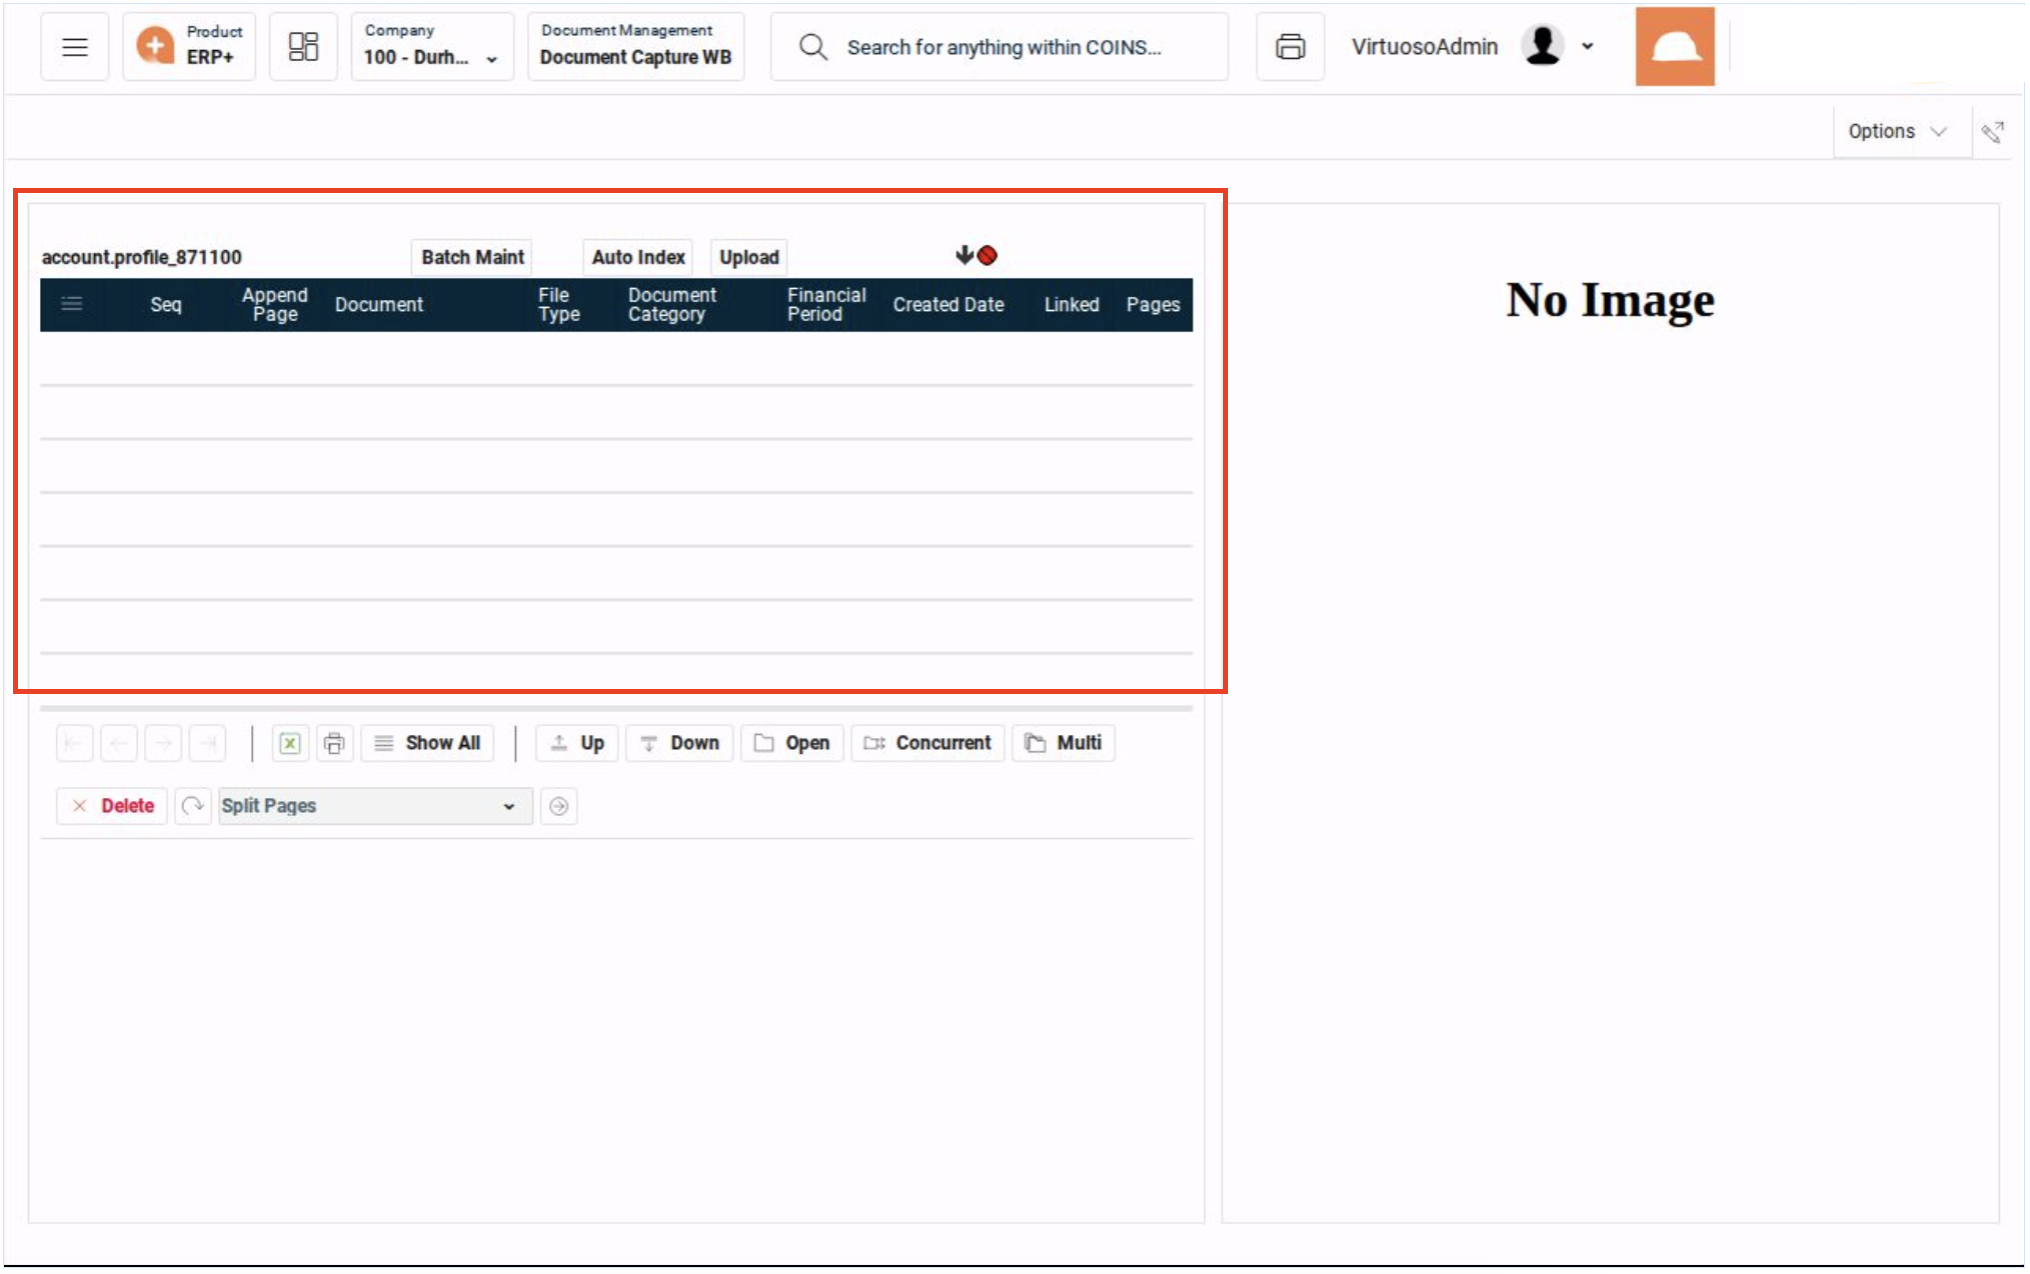
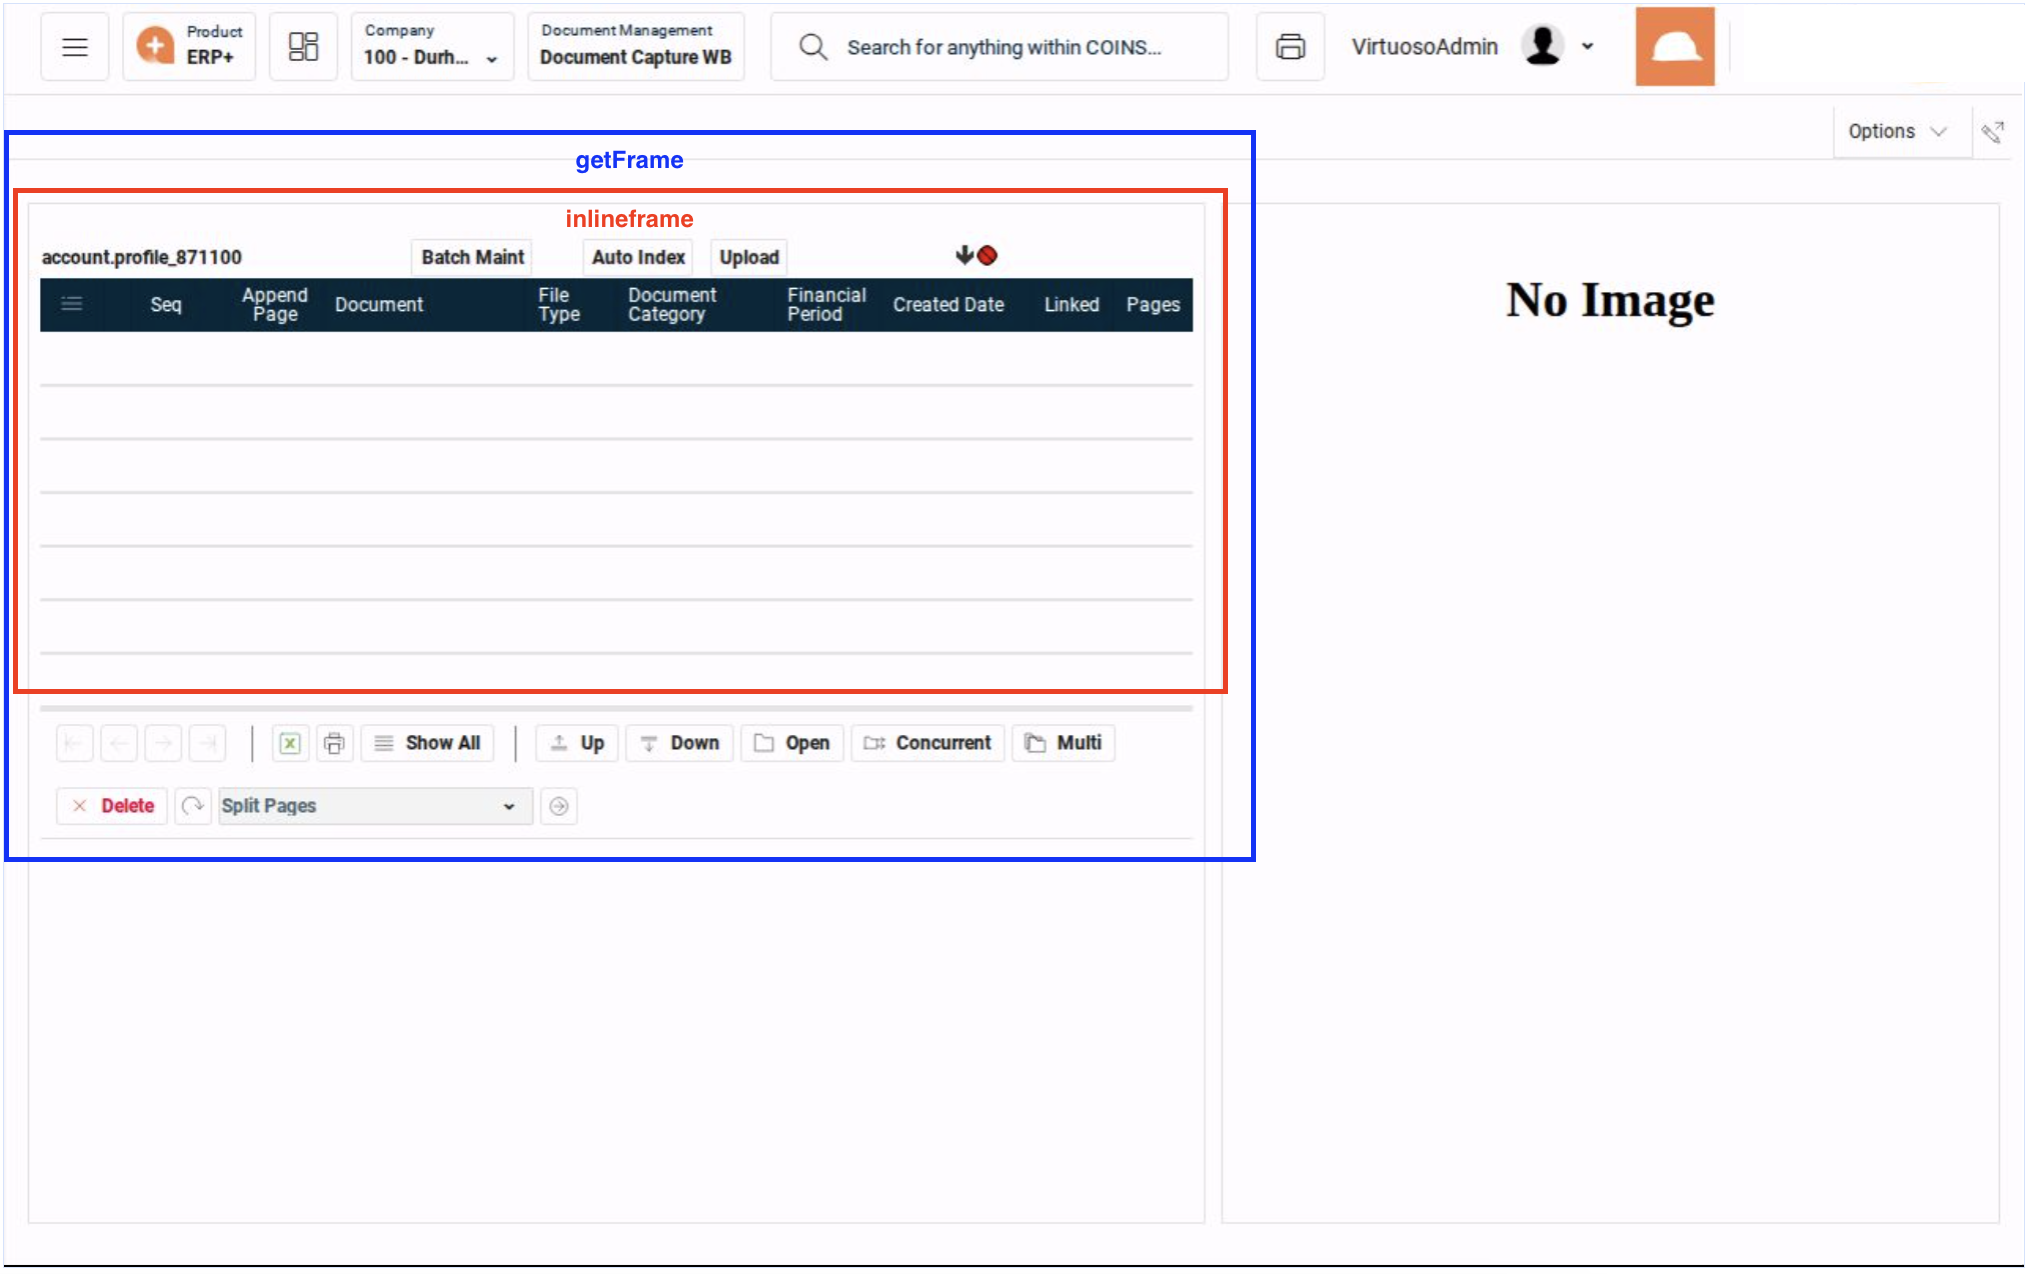
Update inlineframe example with labeled version showing frame hierarchy
- Replace with new image that has colored borders (blue=getFrame, red=inlineframe)
- Update description to explain the visual frame hierarchy
- Makes it crystal clear why TWO frame switches are needed
- Visual proof of the nested structure

diff --git a/COINS_IFRAME_VISUAL_EXAMPLES.md b/COINS_IFRAME_VISUAL_EXAMPLES.md
@@ -29,13 +29,15 @@ This guide shows the three main iframe patterns you'll encounter in COINS.
 ![Inline Frame](./screenshots/inlineframe.png)
 
 **What you see:**
+- Blue border labeled "getFrame" (outer frame)
+- Red border labeled "inlineframe" (inner frame)
 - Tab navigation (Batch Maint, Auto Index, Upload)
-- Grid area (may be empty or have data)
-- More complex layout with nested content
+- Grid area inside the nested frames
+- Visual proof of the two-layer structure
 
 **When to use:** First `SYS: Switch to getFrame` THEN `SYS: Switch to inlineframe`
 
-**Key Point:** This requires TWO frame switches - first to getFrame, then to the inline frame.
+**Key Point:** The colored borders show exactly why you need TWO frame switches - you must navigate through getFrame (blue) to reach inlineframe (red).
 
 ---
 
